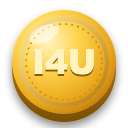
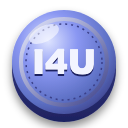
Blue I4U coin; balance shown only inside the shop

diff --git a/js/app.js b/js/app.js
@@ -7334,7 +7334,6 @@ ${f(`S<sub>n</sub> = ${frac("a<sub>1</sub> + a<sub>n</sub>", "2")} · n`)}
       const unread = MOCK.studentNotifs.filter((n) => !n.read).length;
       return `
         <div class="appbar-title" style="flex:1">${titles[state.tab] || "Главная"}</div>
-        ${state.tab === 0 ? `<button type="button" class="ab-coin" id="abCoin">${coinChip()}</button>` : ""}
         <button type="button" class="appbar-bell" id="studentBell" title="Уведомления">${icon("notifications_none")}${unread ? `<i>${unread}</i>` : ""}</button>
         <button type="button" class="appbar-profile" id="curatorAvatar">${icon("person")}</button>`;
     }
@@ -7419,7 +7418,6 @@ ${f(`S<sub>n</sub> = ${frac("a<sub>1</sub> + a<sub>n</sub>", "2")} · n`)}
       };
     });
     bindBanner();
-    $("#abCoin")?.addEventListener("click", () => openService("shop", "Магазин"));
     $("#sgToggle")?.addEventListener("click", () => {
       state.sgClosed = !state.sgClosed;
       render();

diff --git a/index.html b/index.html
@@ -18,7 +18,7 @@
       rel="stylesheet"
     />
     <link href="https://fonts.googleapis.com/css2?family=Oswald:wght@500;700&display=swap" rel="stylesheet" />
-    <link rel="stylesheet" href="css/app.css?v=202610061334" />
+    <link rel="stylesheet" href="css/app.css?v=202610061342" />
   </head>
   <body>
     <p class="page-label">
@@ -138,8 +138,8 @@
       <div class="phone-resize" id="phoneResize" title="Тяните, чтобы изменить размер"></div>
     </div>
 
-    <script src="js/data.js?v=202610061334"></script>
-    <script src="js/i18n.js?v=202610061334"></script>
-    <script src="js/app.js?v=202610061334"></script>
+    <script src="js/data.js?v=202610061342"></script>
+    <script src="js/i18n.js?v=202610061342"></script>
+    <script src="js/app.js?v=202610061342"></script>
   </body>
 </html>

diff --git a/css/app.css b/css/app.css
@@ -4326,3 +4326,9 @@ img.coin { width: 1.05em; height: 1.05em; vertical-align: -0.15em; margin-right:
 .coin-rule .material-icons-outlined { color: var(--primary); }
 .coin-rule span { flex: 1; }
 .coin-rule b { color: #ffd54f; white-space: nowrap; }
+/* Көк монета: мәтін түстері */
+.coin-chip, .shop-price { color: #a9b4ff; }
+.shop-bal b { color: #c3cbff; }
+.shop-bal { background: radial-gradient(ellipse at 20% 30%, #2a3170, #1e1e22 70%); border-color: #3b4089; }
+.coin-rule b { color: #a9b4ff; }
+.shop-bal small { color: #c8cad4; }

diff --git a/docs/flutter/i4u_theme.dart b/docs/flutter/i4u_theme.dart
@@ -37,6 +37,12 @@ class I4UColors {
   static const danger = Color(0xFFE06B5B);
   static const dangerBg = Color(0xFF3A2020);
   static const info = Color(0xFF6C7FD8);
+  // I4U монета (көк)
+  static const coinLight = Color(0xFFDDE3FF);
+  static const coin = Color(0xFF8A97F2);
+  static const coinDark = Color(0xFF3B4089);
+  static const coinText = Color(0xFFA9B4FF);
+
   // Алтын (кубок, жеңіс, 3D gold батырма)
   static const goldLight = Color(0xFFFFF1B8);
   static const gold = Color(0xFFFFD24D);

diff --git a/docs/ICONS.md b/docs/ICONS.md
@@ -173,7 +173,7 @@ SVG үшін `flutter_svg` пакеті: `SvgPicture.asset('assets/tournament/tr
 - `assets/tournament/tournament_line.svg` / `.png` (512×512) — басқа сервис иконкалары сияқты контурлы (stroke 32, дөңгелек ұштар), түсі алтын `#E9A825`. Staff және студент басты бетіндегі «Турнир(лер)» плиткасы.
 
 ### I4U монетасы
-- `assets/coin/coin.svg` / `coin.png` (128×128) — 3D алтын монета. Баланс, дүкен бағасы, топ соғысындағы жұлдыздардың орнына.
+- `assets/coin/coin.svg` / `coin.png` (128×128) — 3D көк монета (`#DDE3FF → #8A97F2 → #5B6EC2 → #3B4089`, мәтін `#F2F4FF`). Дүкен балансы, дүкен бағасы, топ соғысындағы жұлдыздардың орнына.
 
 ### «Батл» сервис иконкасы
 - `assets/tournament/battle_line.svg` / `.png` (512×512) — айқасқан екі қылыш, контурлы (stroke 32), түсі `#E2574C`. Студенттің басты бетіндегі «Батл» плиткасы және батл беті.

diff --git a/docs/features/COINS_SHOP.md b/docs/features/COINS_SHOP.md
@@ -2,7 +2,7 @@
 
 Макет: студент → Главная (app bar-дағы 🪙 1 240) немесе Сервисы → **Магазин**.
 Код: `wallet()`, `earnCoins()`, `coinChip()`, `shopHtml()`, `bindShop()`, `COIN_RULES`, `SHOP`.
-Иконка: `assets/coin/coin.svg` / `coin.png` (128×128, 3D алтын монета «I4U»).
+Иконка: `assets/coin/coin.svg` / `coin.png` (128×128, 3D **көк** монета «I4U», I4U түстері: бет `#DDE3FF → #8A97F2 → #5B6EC2 → #3B4089`, қыры `#3B4089 → #1E2260`). Баланс тек **Магазин** ішінде көрсетіледі (жоғарғы карточка + app bar чипі `#A9B4FF`); басты беттің app bar-ында монета жоқ.
 
 ## Монета қалай жиналады
 | Әрекет | Монета |
